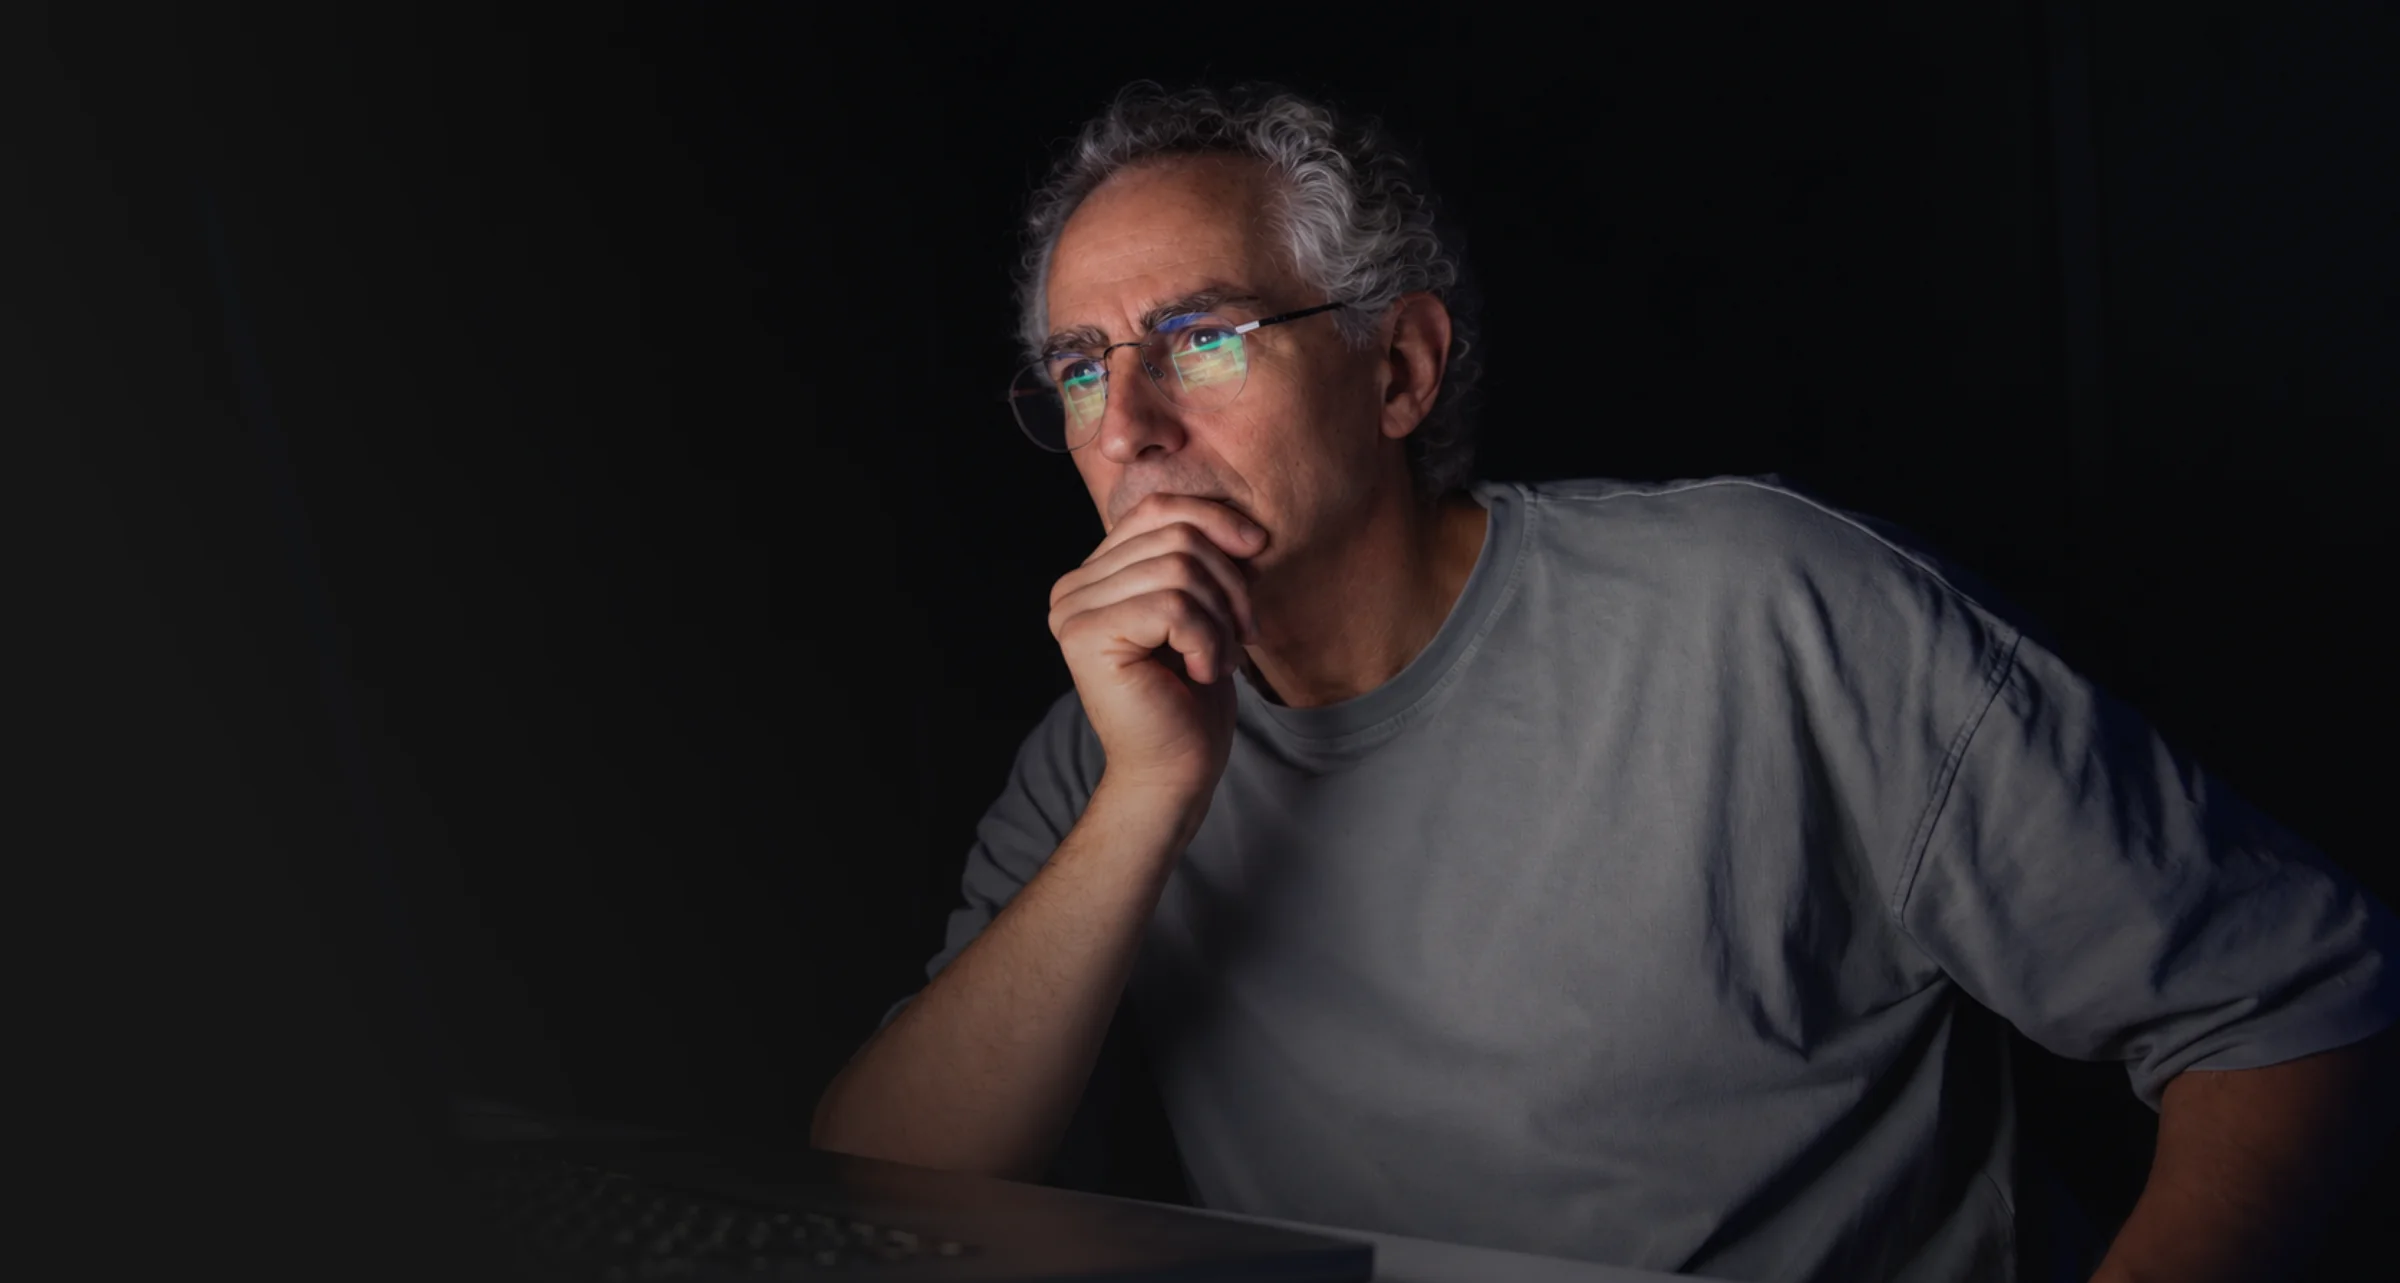
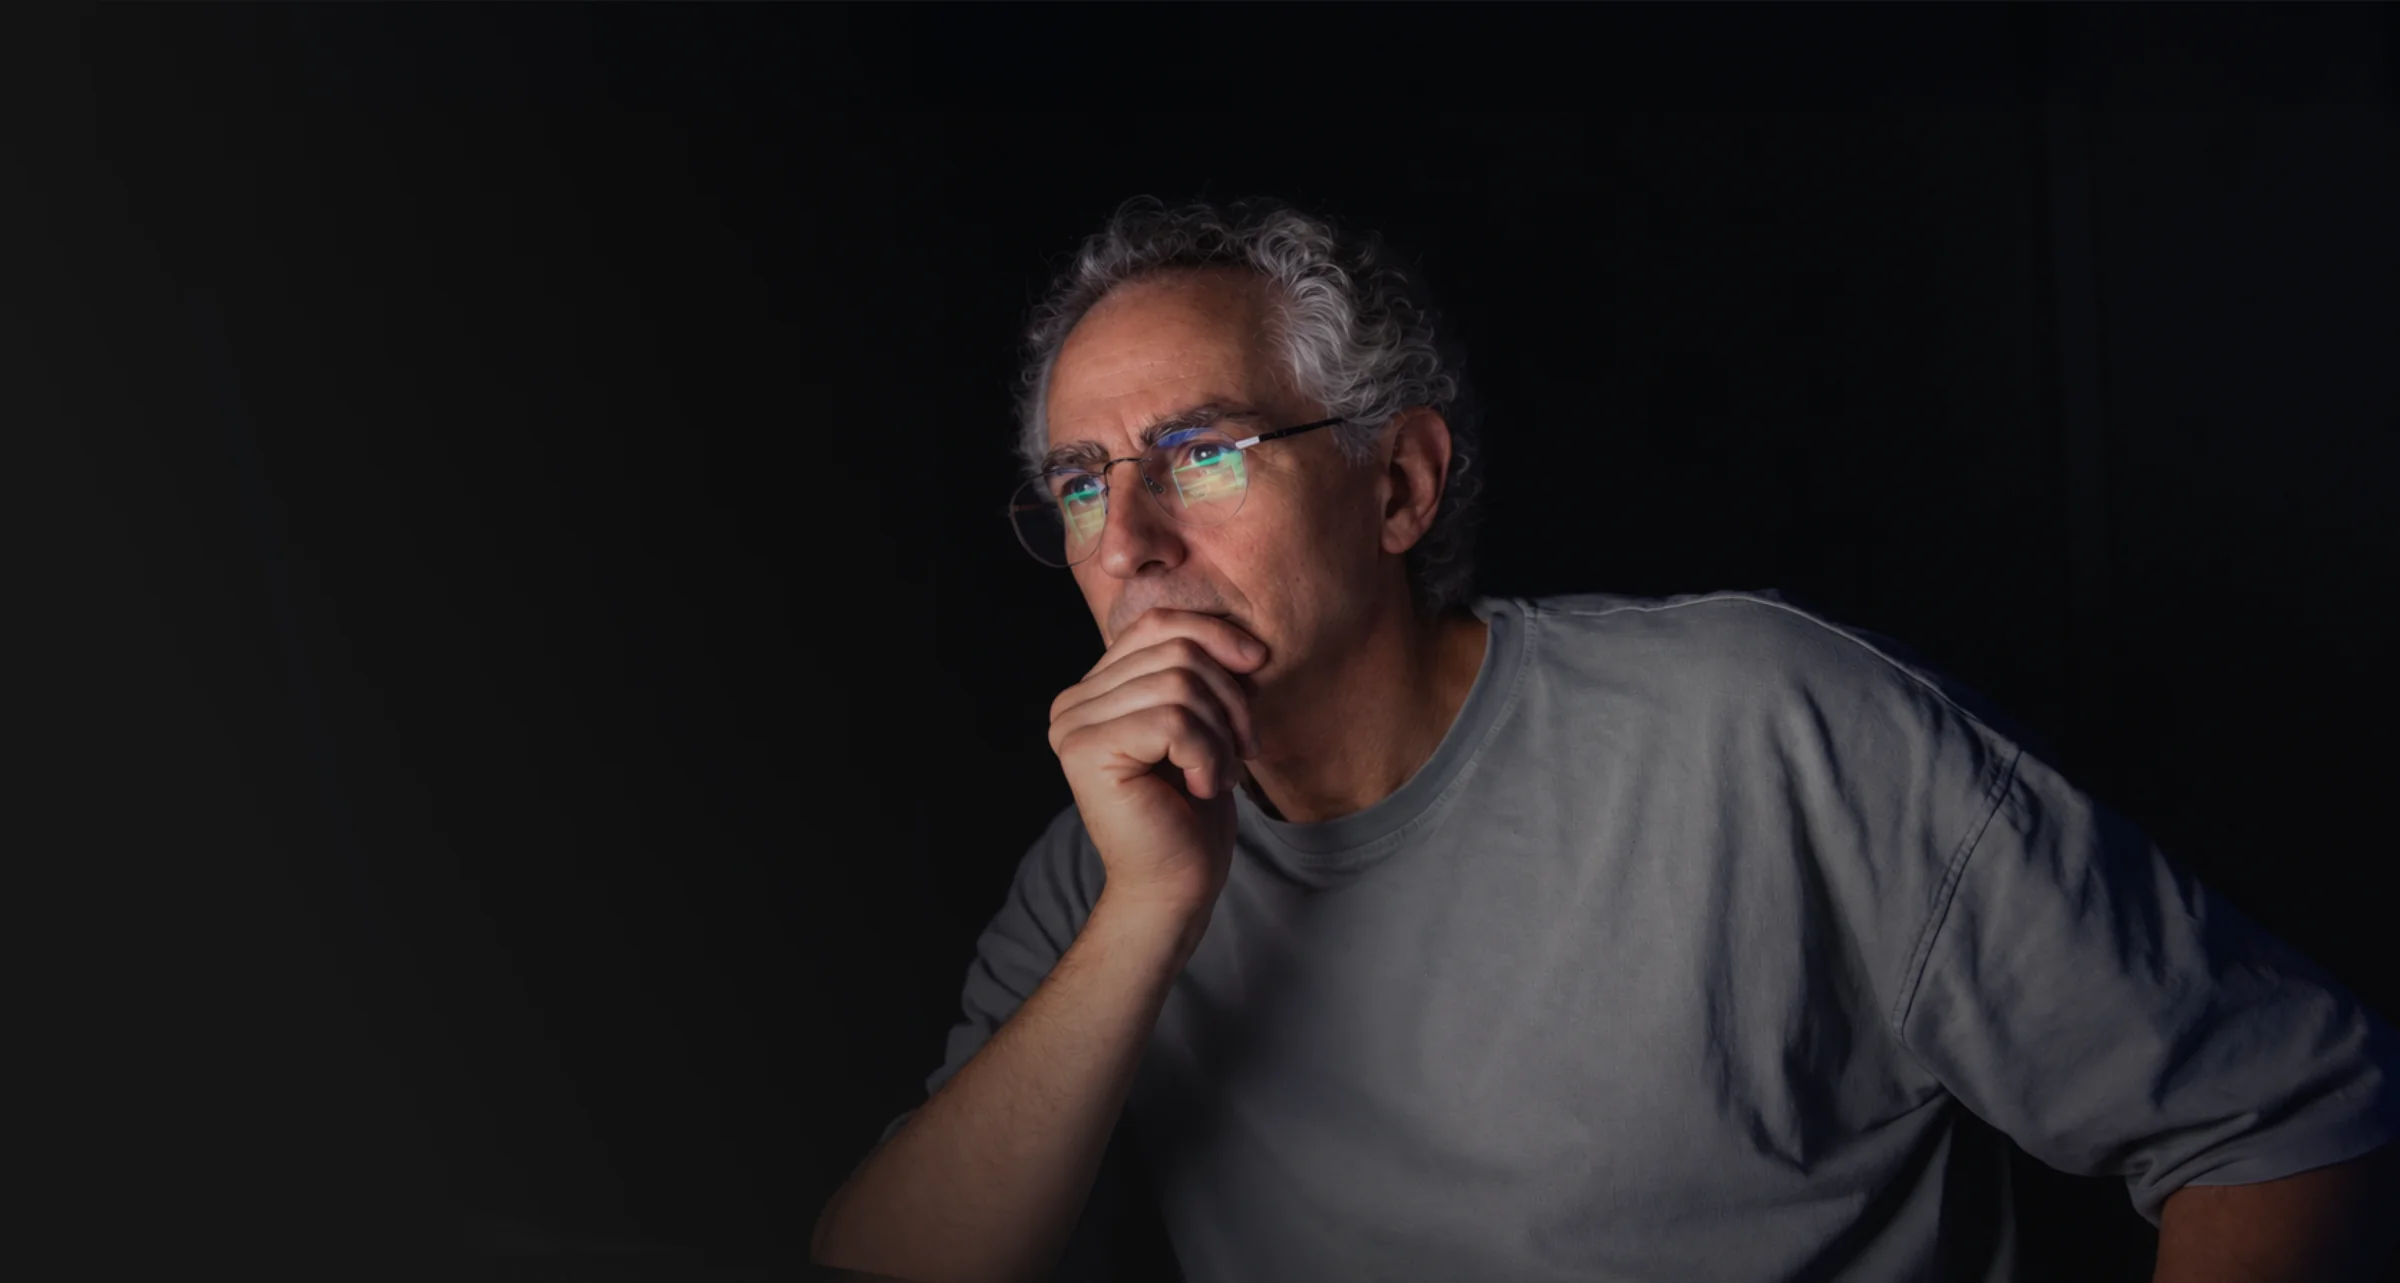
fix hero image blog

Changed region(s): [[0.3438, 0.0624, 1.0, 1.0], [0.5, 0.9665, 0.5938, 1.0], [0.4375, 0.9665, 0.4688, 0.9977]]

diff --git a/src/pages/Blog.jsx b/src/pages/Blog.jsx
@@ -3,6 +3,7 @@ import { useSearchParams } from "react-router-dom";
 import { usePageMeta } from "@/hooks/usePageMeta";
 import { getCategories, getPublishedPosts, getTags } from "@/services/blog";
 import HERO_BG from "@/assets/images/blog/hero-bg.webp";
+import HERO_BG_MOBILE from "@/assets/images/blog/hero-bg-mobile.webp";
 import BlogCard from "@/components/PageComponents/Blog/BlogCard";
 
 const PAGE_SIZE = 9;
@@ -61,12 +62,15 @@ function Blog() {
 
   return (
     <>
-      <section className="relative -mt-[100px] w-full overflow-hidden bg-black">
-        <img
-          src={HERO_BG}
-          alt="Tony Martignetti"
-          className="absolute inset-0 h-full w-full object-cover object-[70%_20%] md:object-[75%_30%]"
-        />
+      <section className="relative -mt-[100px] h-dvh w-full overflow-hidden bg-black">
+        <picture>
+          <source media="(min-width: 768px)" srcSet={HERO_BG} />
+          <img
+            src={HERO_BG_MOBILE}
+            alt="Tony Martignetti"
+            className="absolute inset-0 h-full w-full object-cover"
+          />
+        </picture>
         <div
           className="absolute inset-0 hidden md:block"
           style={{
@@ -74,15 +78,15 @@ function Blog() {
               "linear-gradient(to right, rgba(0,0,0,0.9) 0%, rgba(0,0,0,0) 55%)",
           }}
         />
-        <div
+        {/* <div
           className="absolute inset-0 md:hidden"
           style={{
             backgroundImage:
               "linear-gradient(to bottom, rgba(0,0,0,0.9) 0%, rgba(0,0,0,0.4) 50%, rgba(0,0,0,0.9) 100%)",
           }}
-        />
+        /> */}
 
-        <div className="relative flex min-h-[500px] w-full flex-col justify-center px-4 pt-[140px] pb-12 md:min-h-[100vh] md:px-[60px] md:pt-[100px] md:pb-0">
+        <div className="relative flex min-h-[100dvh] w-full flex-col justify-end px-4 pt-[140px] pb-20 md:min-h-[100vh] md:justify-center md:px-[60px] md:pt-[100px] md:pb-0">
           <div className="mx-auto flex w-full max-w-[1440px] flex-col gap-3">
             <p className="font-script text-2xl leading-[33.6px] text-[#2fac66] md:text-[32px] md:leading-[44.8px]">
               More Insights
